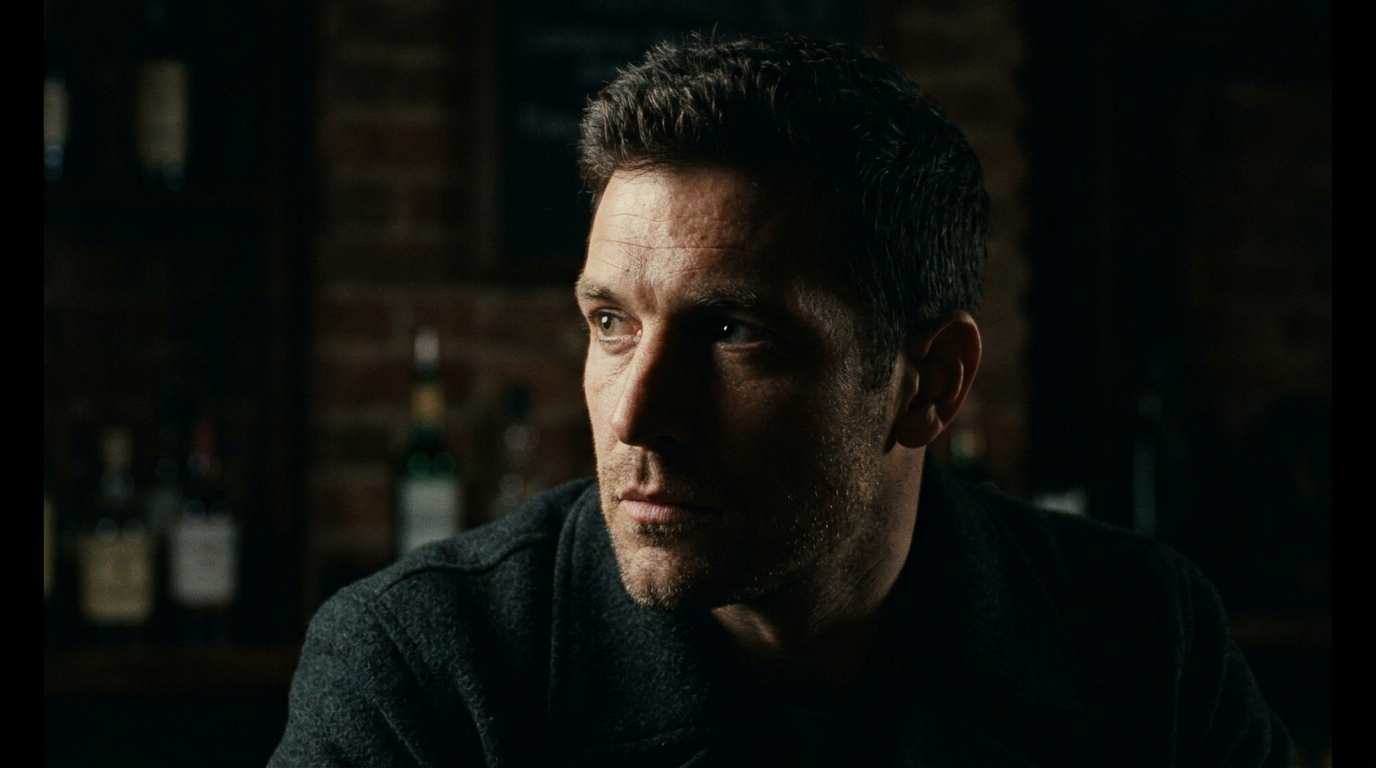
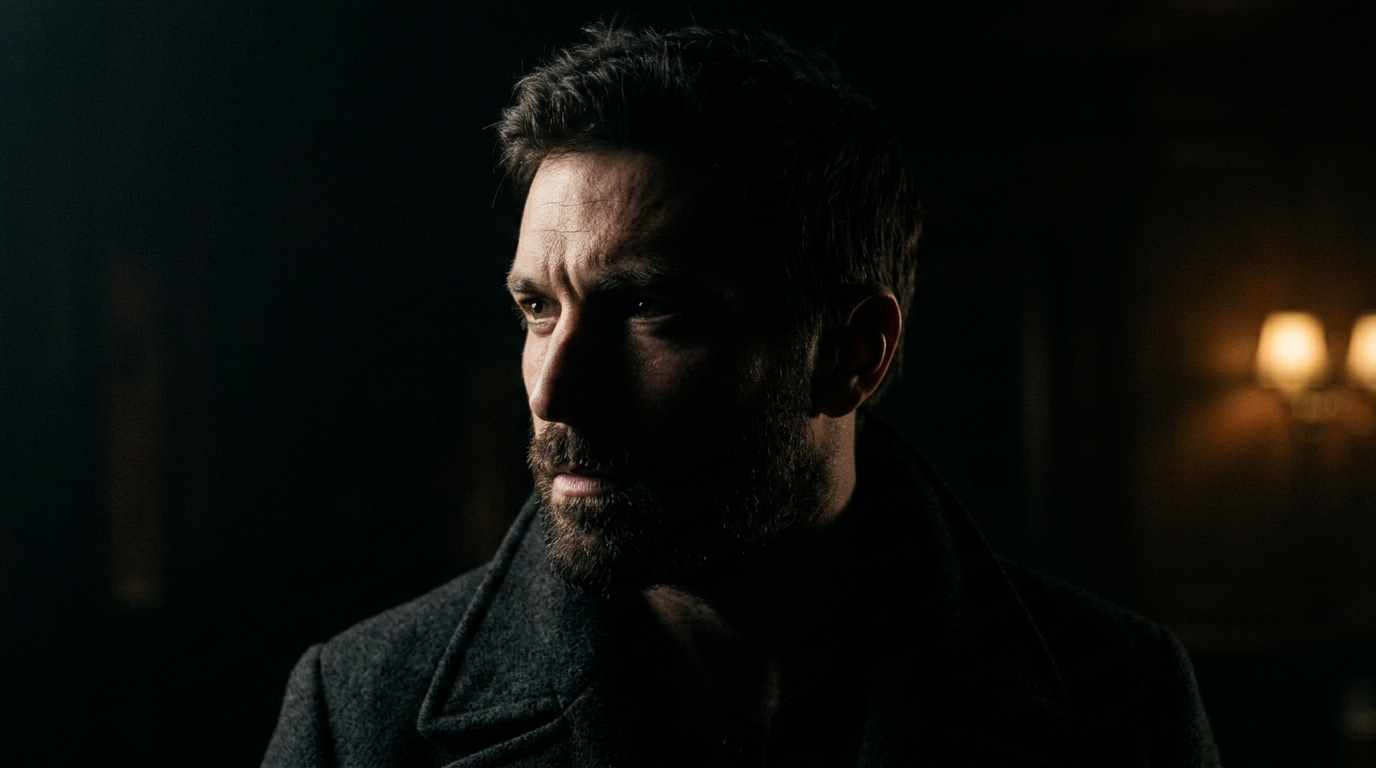
fix(lighting): align short lighting cinema still with deep shadow on camera-facing cheek

diff --git a/sw.js b/sw.js
@@ -1,5 +1,5 @@
 // Généré par outils/generer-sw.mjs — ne pas modifier à la main
-const VERSION = 'jco-ac9797e9c7';
+const VERSION = 'jco-e87c187909';
 const PRECACHE = ["./",
   "./css/app.css",
   "./fonts/fraunces-latin-opsz-normal.woff2",
